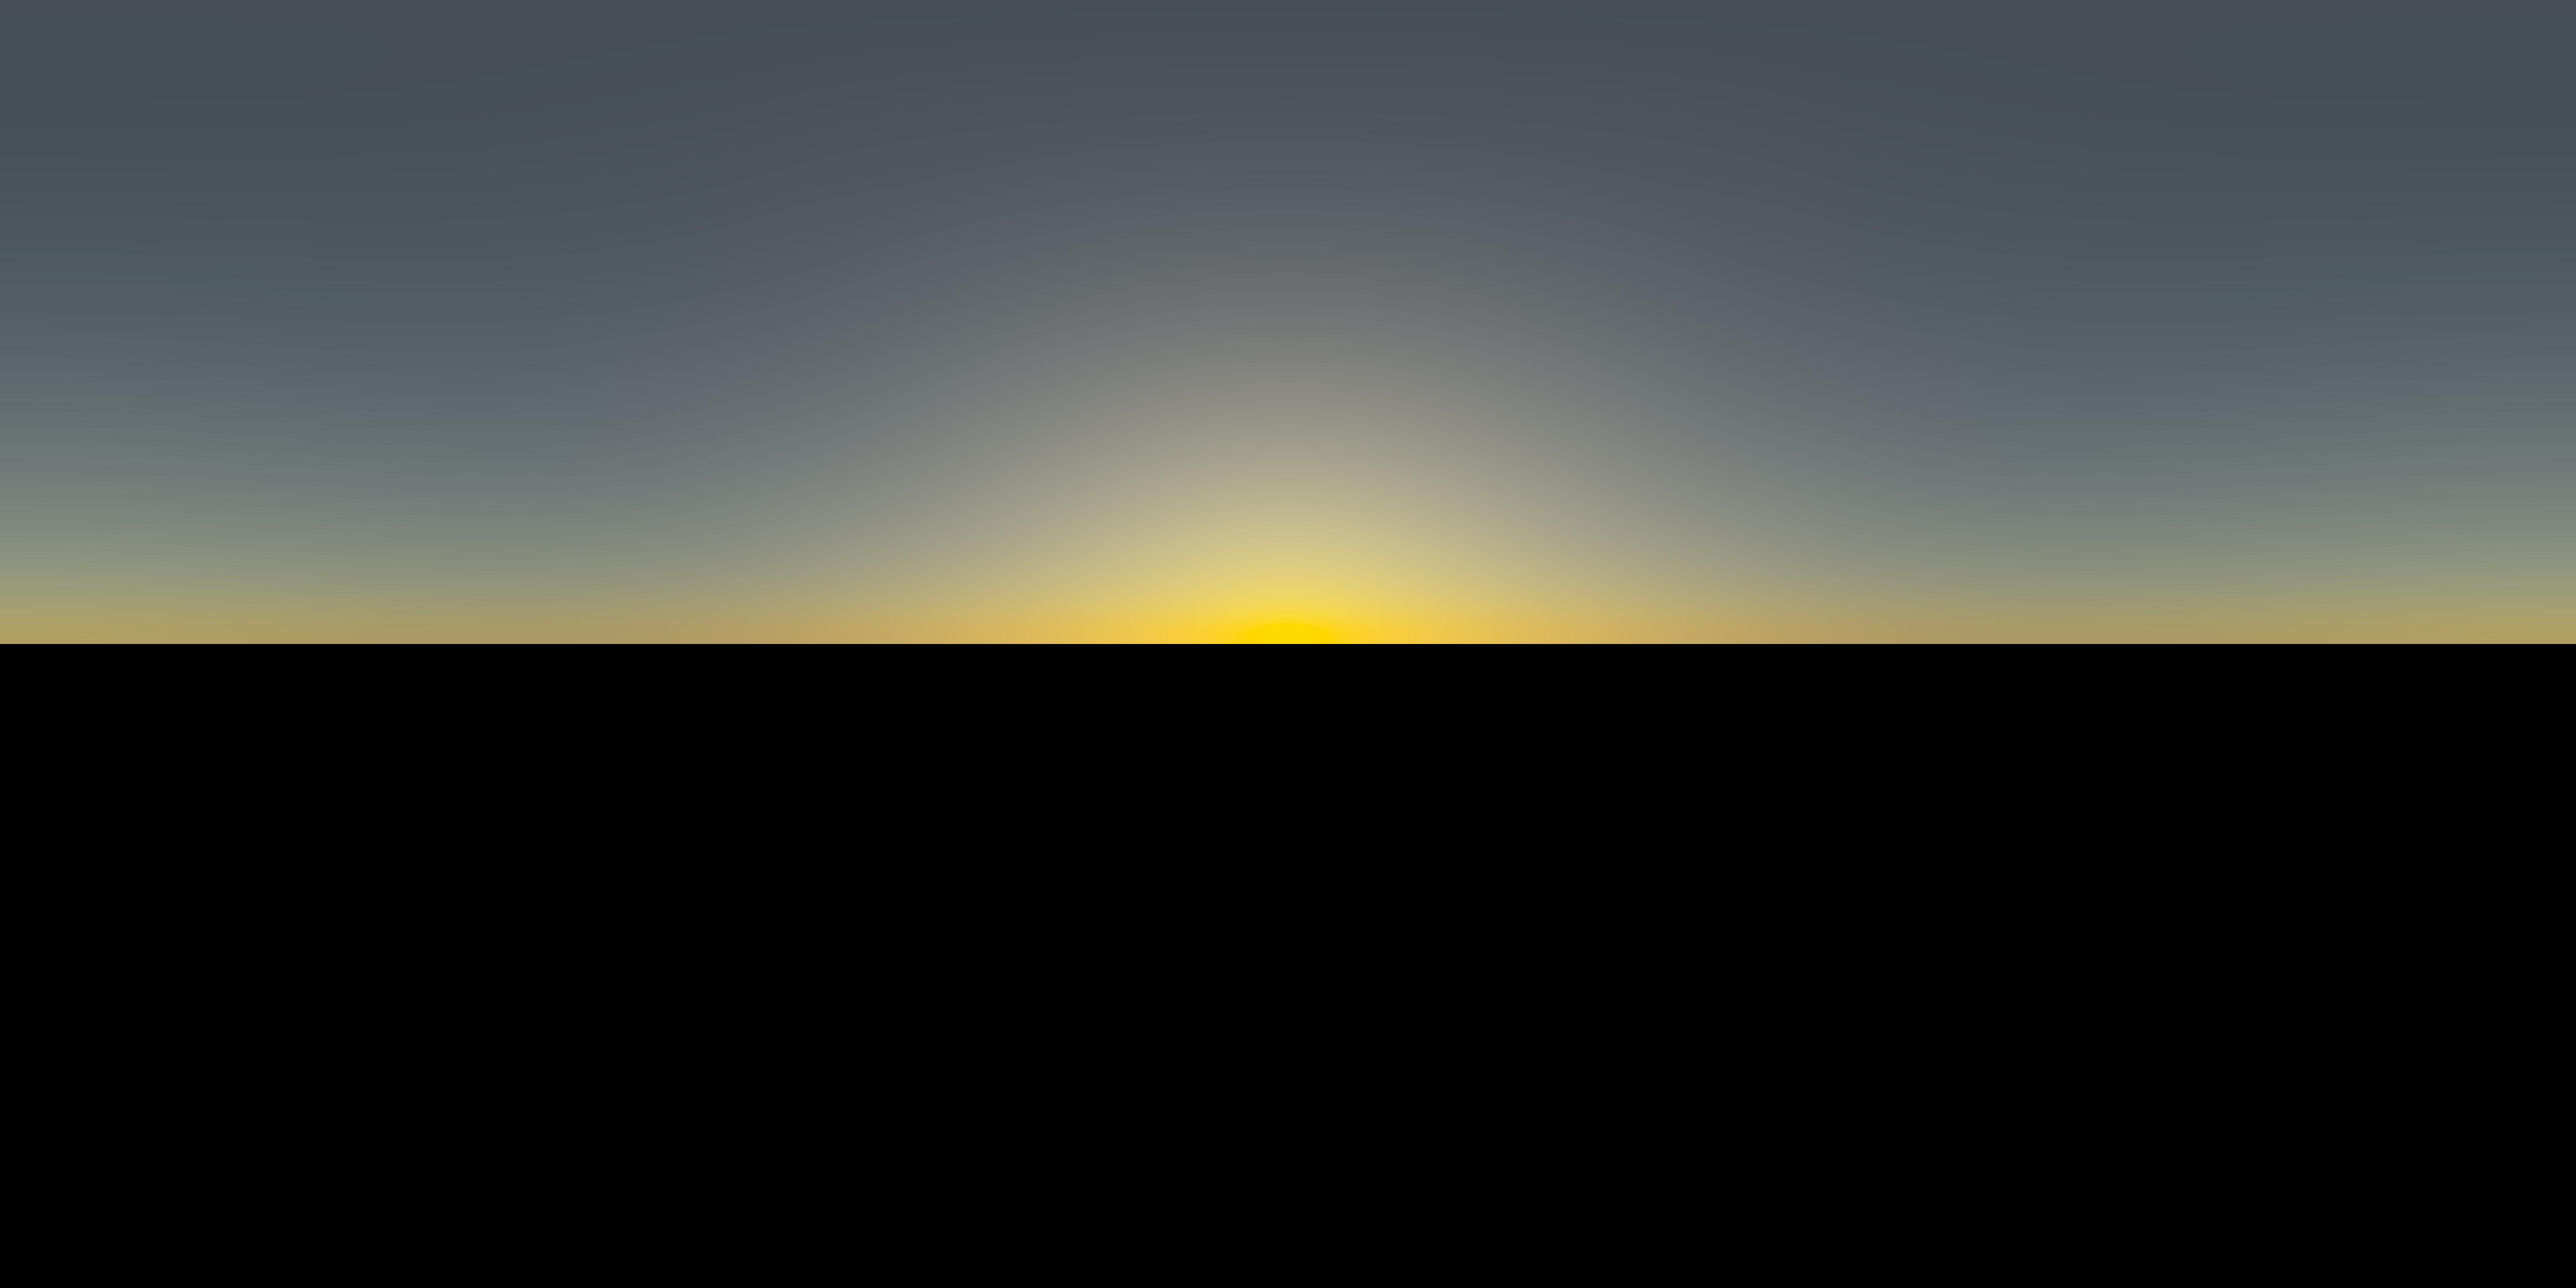
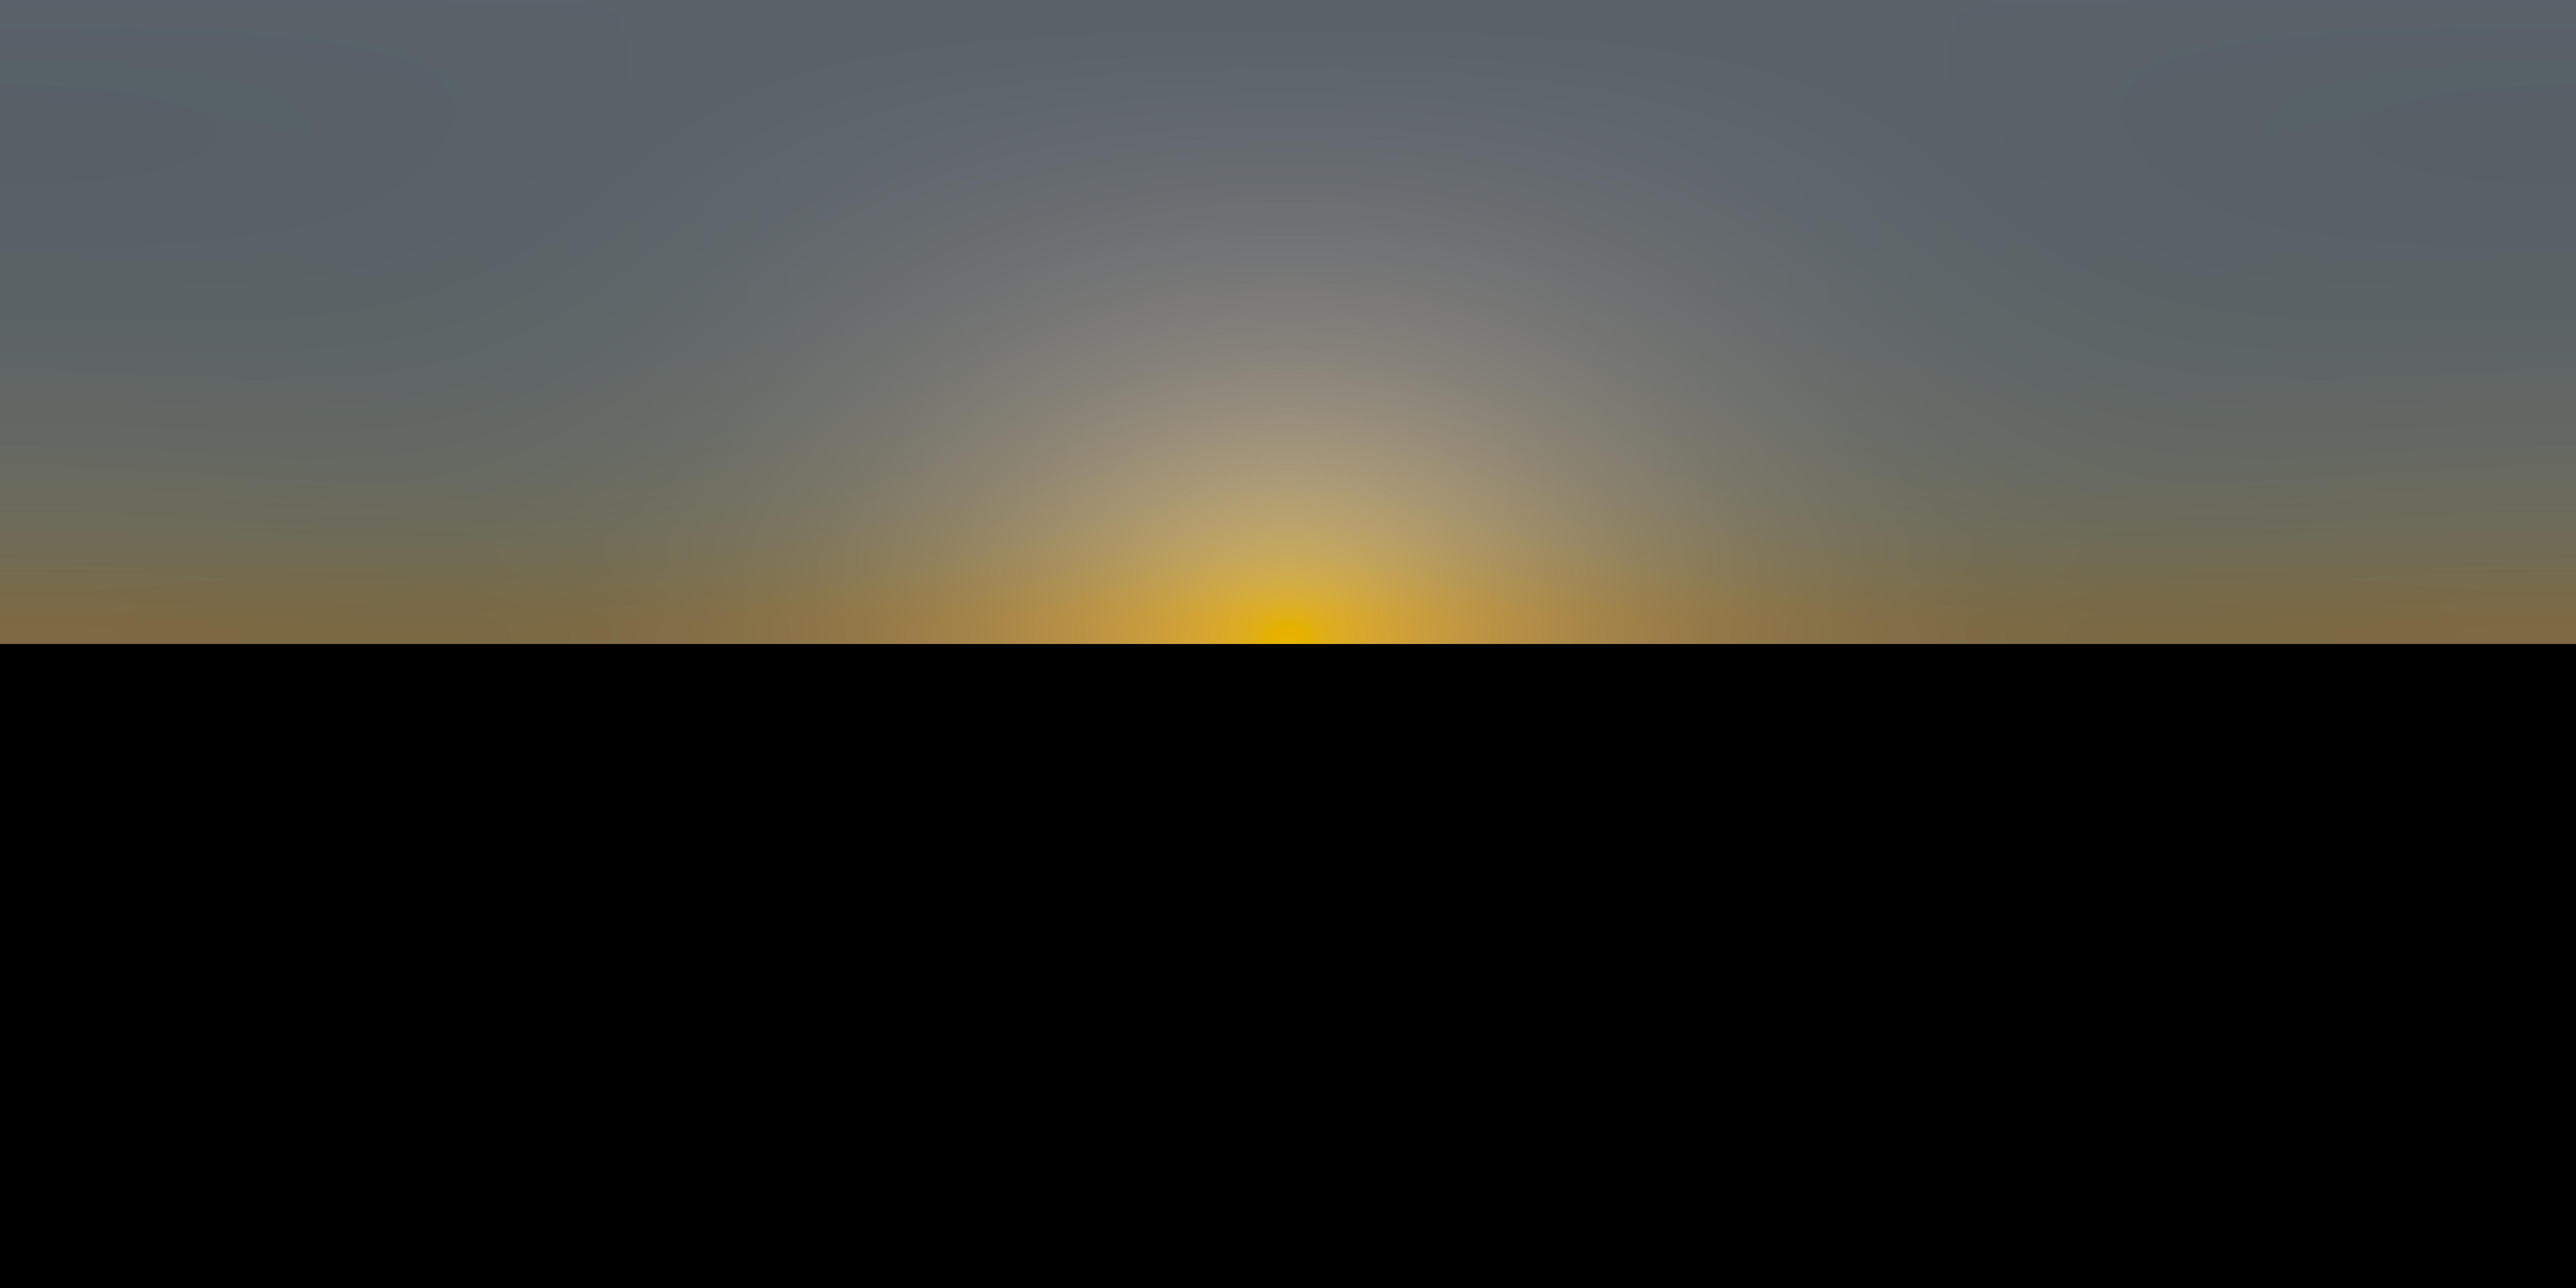
increase the turbidity

Changed region(s): [[0.0, 0.3438, 1.0, 0.5]]

diff --git a/simulate.py b/simulate.py
@@ -62,7 +62,7 @@ def spherical_distance(psi: torch.Tensor, phi: torch.Tensor,
 gamma = spherical_distance(psi, phi, psi_s, phi_s, implementation="vicenty")
 
 # Set the turbidty
-T = 2.0
+T = 4.0
 
 # Compute absolute zenith luminance and chromaticity
 chi = (4.0 / 9.0 - T / 120.0) * (math.pi - 2 * theta_s)
